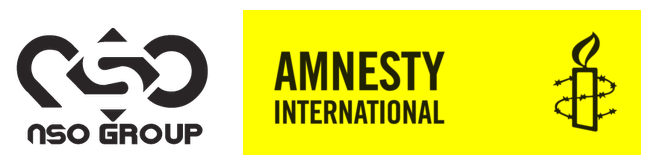
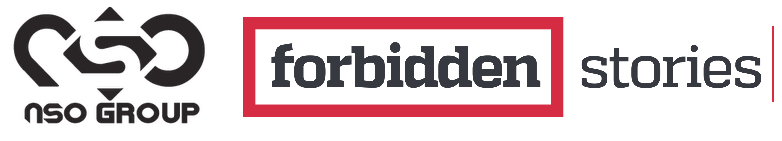
Readme: Added intro

diff --git a/README.md b/README.md
@@ -2,15 +2,12 @@
 
 ![Header](images/header.png)
 
-Repository for the cybercrime seminar on pegasus spyware.
+## Introduction
 
-# Links
-- [Common drive link](https://drive.google.com/drive/folders/1sbndFC5vSz6eOTZTVHYfJM9MSexGGUgB)
-- [Overleaf LaTeX link](https://www.overleaf.com/project/61f8fc594acd437e5e448c97)
+Pegasus is a smartphone spyware developed by the Israeli technological firm NSO group. The Citizen Lab described it as the "most sophisticated cyber weapon ever discovered". 
 
-# Team
-- Kumaravel Rajan : 03738617
-- Daniel Buecheler : 03695926
+In 2020, around 50,000 phone numbers believed to have been victims of Pegasus surveillance were leaked to the French NGO Forbidden Stories and the UK NGO Amnesty International. A team of journalists began investigating these numbers.
 
-# Final report
-The final report can be found [here](https://gitlab.com/kumaravel.rajan/pegasusvictimsonlineanalysis/-/blob/main/Investigating_Pegasus_Impact_on_the_Online_Activity_of_Journalists_Targeted_with_Illegal_Surveillance_-_an_open-source_data_analysis.pdf).
+In 2021 The Pegasus Project began publishing results of the analysis. It was found that the list contained opposition politicians, activists and around 200 journalists from nearly two dozen countries along with 14 head of states. 
+
+As part of the revelations, Forbidden Stories posted detailed profiles of 44 victims of Pegasus on their website. Our project is focused on these 44 individuals. We aim to visualize how Pegasus victims reacted to the fact that they were being spied upon by analyzing their online activity.
